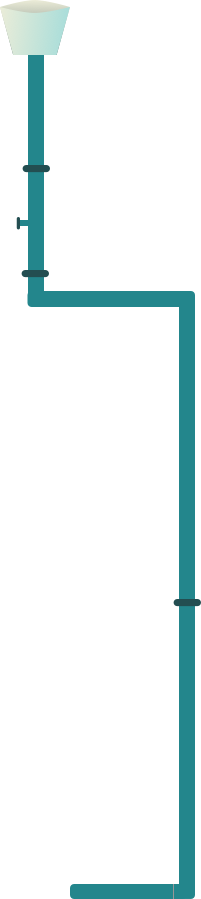
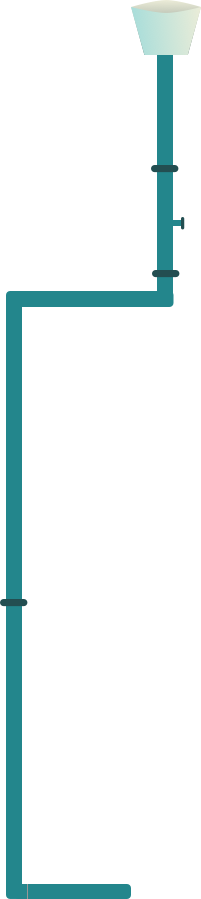
__

Changed region(s): [[0.6269, 0.0, 1.0, 1.0], [0.0, 0.0, 0.3582, 1.0]]

diff --git a/site/public/css/homepage.css b/site/public/css/homepage.css
@@ -242,9 +242,9 @@
 
 .home-page .third-animation .first-pipe {
   position: absolute;
-  left: 40vw;
   top: 2vw;
   width: 16vw;
+  left: 7vw;
 }
 
 .home-page .third-animation .processus-title {
@@ -288,6 +288,71 @@
   position: relative;
   text-decoration: none;
   color: black;
+}
+
+.home-page .fourth-animation {
+  padding-top: 10vw;
+  height: 90vw;
+  position: relative;
+}
+
+.home-page .fourth-animation .pipe-2 {
+  position: absolute;
+  left: 35vw;
+  top: -14vw;
+  z-index: -4;
+}
+
+.home-page .fourth-animation .financement-title {
+  font-size: 7vw;
+  text-align: center;
+  color: rgba(74, 74, 74, 0.11);
+  margin-bottom: 6vw;
+  margin-right: 4vw;
+  position: relative;
+  top: 4vw;
+}
+
+.home-page .fourth-animation .left {
+  position: absolute;
+  height: 19vw;
+  width: 26vw;
+  left: 14vw;
+}
+
+.home-page .fourth-animation .left .text {
+  position: absolute;
+  width: 16vw;
+}
+
+.home-page .fourth-animation .left .text .total {
+  font-size: 5vw;
+}
+
+.home-page .fourth-animation .left img {
+  position: absolute;
+  top: 2vw;
+  left: 5vw;
+  width: 15vw;
+}
+
+.home-page .fourth-animation .right {
+  position: relative;
+  float: right;
+  right: 10vw;
+}
+
+.home-page .fourth-animation .right .financement-img {
+  position: absolute;
+  top: 7vw;
+  right: 6vw;
+  width: 30vw;
+  z-index: 3;
+}
+
+.home-page .fourth-animation .right .financement-background {
+  width: 28vw;
+  position: relative;
 }
 
 .home-page .video-conainer {

diff --git a/site/resources/assets/sass/homepage.scss b/site/resources/assets/sass/homepage.scss
@@ -214,9 +214,9 @@
     position: relative;
     .first-pipe{
       position: absolute;
-      left: 40vw;
       top: 2vw;
       width: 16vw;
+      left: 7vw;
     }
     .processus-title{
       font-size: 10vw;
@@ -257,8 +257,61 @@
     }
   }
   .fourth-animation{
-    
+    padding-top: 10vw;
+    height: 90vw;
+    position: relative;
+    .pipe-2{
+      position: absolute;
+      left: 35vw;
+      top: -14vw;
+      z-index: -4;
 
+    }
+    .financement-title{
+      font-size: 7vw;
+      text-align: center;
+      color: rgba(74, 74, 74, 0.11);
+      margin-bottom: 6vw;
+      margin-right: 4vw;
+      position: relative;
+      top: 4vw;
+    }
+
+    .left{
+      position: absolute;
+      height: 19vw;
+      width: 26vw;
+      left: 14vw;
+      .text{
+        position: absolute;
+        width: 16vw;
+        .total{
+          font-size: 5vw;
+        }
+      }
+      img{
+        position: absolute;
+        top: 2vw;
+        left: 5vw;
+        width: 15vw;
+      }
+    }
+  .right{
+    position: relative;
+    float: right;
+    right: 10vw;
+    .financement-img{
+      position: absolute;
+      top: 7vw;
+      right: 6vw;
+      width: 30vw;
+      z-index: 3;
+       }
+    .financement-background{
+      width: 28vw;
+      position: relative;
+    }
+  }
   }
   /*END MAIN ANNIMATION SECTION*/
   font-family: lato;

diff --git a/site/resources/views/pages/home.blade.php b/site/resources/views/pages/home.blade.php
@@ -77,14 +77,16 @@
 
         </div>
         <div class="right">
-            <div class="small-circle">
-                <span class="pourcentage-circle">80%</span>
-            </div>
-            <div class="zoom-map-circle">
-                <span>DOUALA</span>
-                <hr>
-                <img class="map-zoom" src="/img/annimation/africa-zoom.png" alt="africa-zoom">
-            </div>
+
+                <div class="small-circle">
+                    <span class="pourcentage-circle">80%</span>
+                </div>
+                <div class="zoom-map-circle">
+                    <span>DOUALA</span>
+                    <hr>
+                    <img class="map-zoom" src="/img/annimation/africa-zoom.png" alt="africa-zoom">
+                </div>
+
         </div>
 
         </section>
@@ -109,20 +111,23 @@
         </section>
 
         <section class="fourth-animation">
+            <img class="pipe-2" src="/img/annimation/pipe-2.png" alt="">
+            <h2 class="financement-title">FINANCEMENT</h2>
             <div class="left">
                 <div class="text">
                     <p>Le cout total des trvaux s’éleve à :</p>
-                        <span>23 628</span>
+                        <span class="total">23 628</span>
                     <hr>
                     <p>Abonnement mensuel
                         par famille </p>
                     <span class="la-taxe">
-                        24€
+                        0,24€
                     </span>
                 </div>
                 <img src="/img/annimation/euro.png" alt="">
             </div>
             <div class="right">
+
                 <img class="financement-img" src="/img/annimation/financement-img.png" alt="">
                 <img class="financement-background" src="/img/annimation/financement-background.png" alt="">
 
